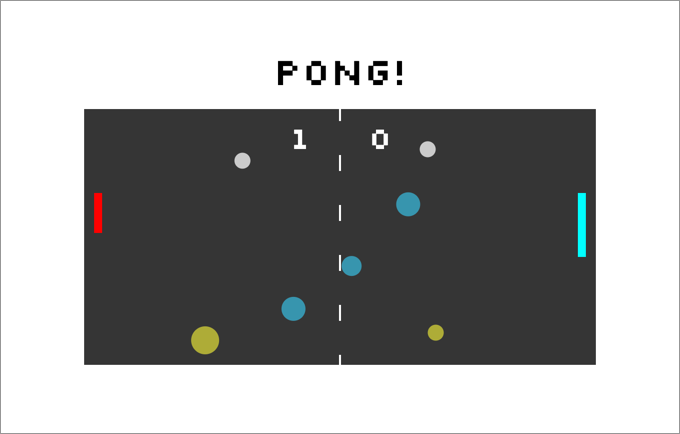
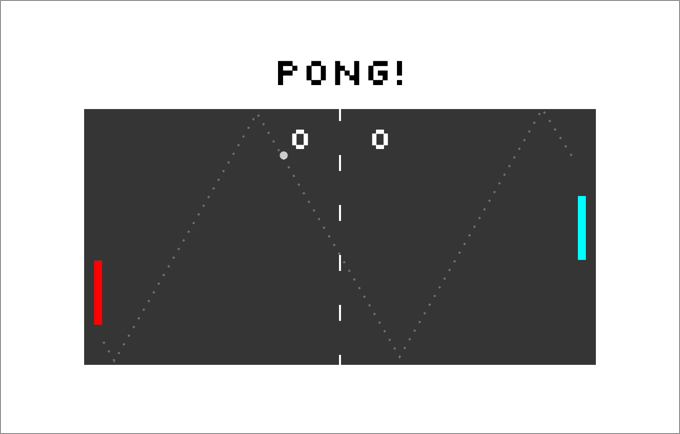
Fix the error when remove a ball

diff --git a/src/settings.js b/src/settings.js
@@ -8,21 +8,21 @@ export const GameOptions = {
 
 // key setting for the player 1 and player 2
 export const KEYS = {
-    right: 39,
-    left: 37,
-    a: 65,        
-    z: 90,        
-    up: 38, 
-    down: 40,
-    spaceBar: 32,
-    enter: 13,
-    ballFast: 70,
-    ballSlow: 86,
-    ballBig: 71,
-    ballSmall: 66,
-    ballPlus: 72,
-    ballMinus: 78,
-    toggleGuideline: 82,
+    right: 39,              // ▶
+    left: 37,               // ◀
+    a: 65,                  // a
+    z: 90,                  // z
+    up: 38,                 // ▲
+    down: 40,               // ▼
+    spaceBar: 32,           // space
+    enter: 13,              // enter
+    ballFast: 70,           // f
+    ballSlow: 86,           // v
+    ballBig: 71,            // g
+    ballSmall: 66,          // b
+    ballPlus: 72,           // h
+    ballMinus: 78,          // n
+    toggleGuideline: 82,    // r
   }
 
 // properties of Paddle

diff --git a/src/partials/Game.js b/src/partials/Game.js
@@ -106,7 +106,7 @@ export default class Game {
             if (BallOptions.number > 1){
               BallOptions.number = Math.max(BallOptions.number - 1, BallOptions.minBallNum);
               let index = BallOptions.number;
-              this.ball[`new_${index}`] = undefined;
+              delete this.ball[`new_${index}`];
             }
           }
           break;

diff --git a/src/partials/Ball.js b/src/partials/Ball.js
@@ -186,6 +186,7 @@ export default class Ball {
 
     // toggle the guideline of the ball direction
     toggleGuideLine(objBall){
+      console.log(objBall);
       Object.keys(objBall).forEach(key => {
         let startLineX = objBall[key].x,
             startLineY = objBall[key].y,

diff --git a/README.md b/README.md
@@ -1,4 +1,4 @@
-# Pong Game Starter
+# Pong Game Starter - v0.5.0
 
 A starter project for a basic pong game using SVGs.
 
